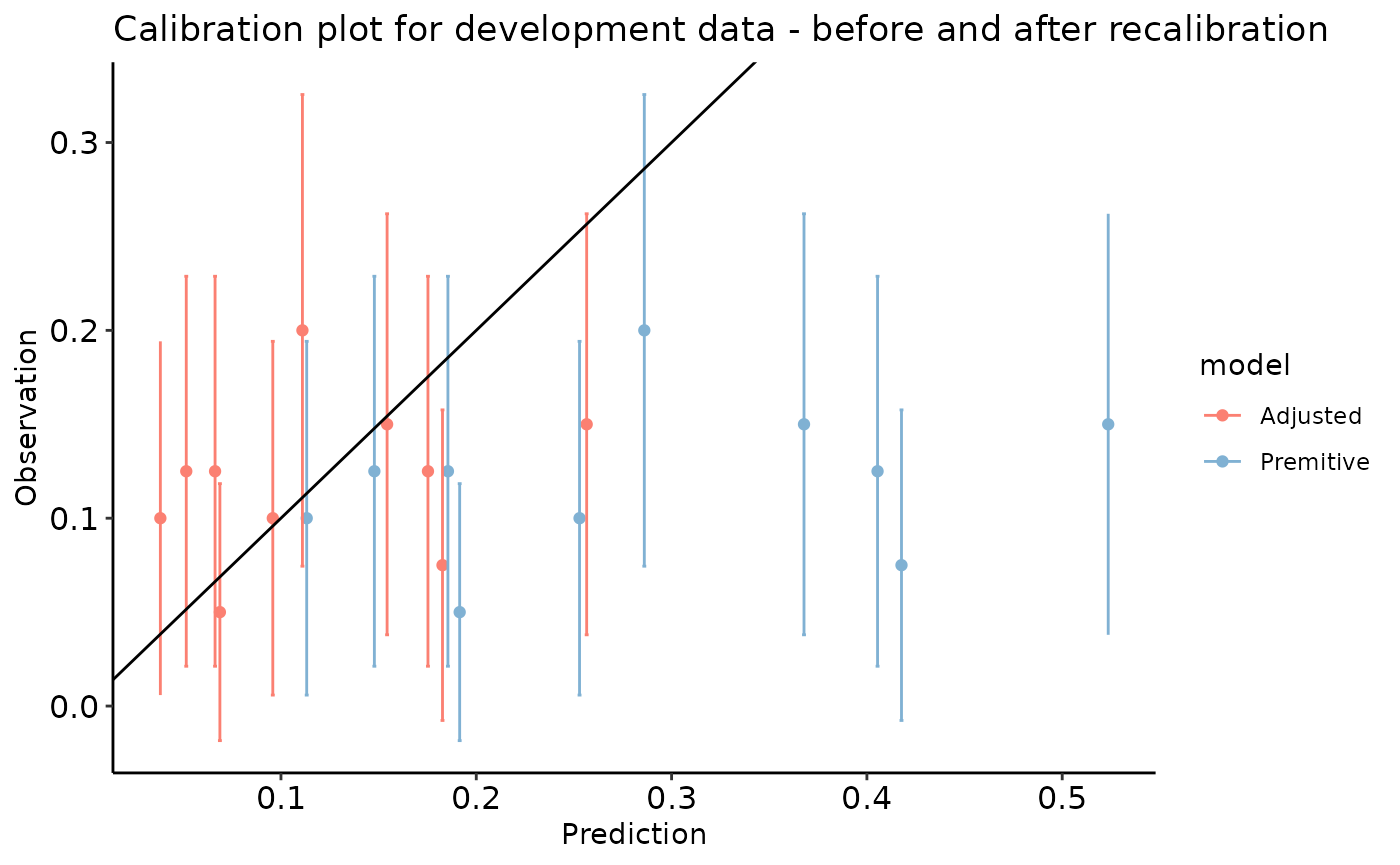
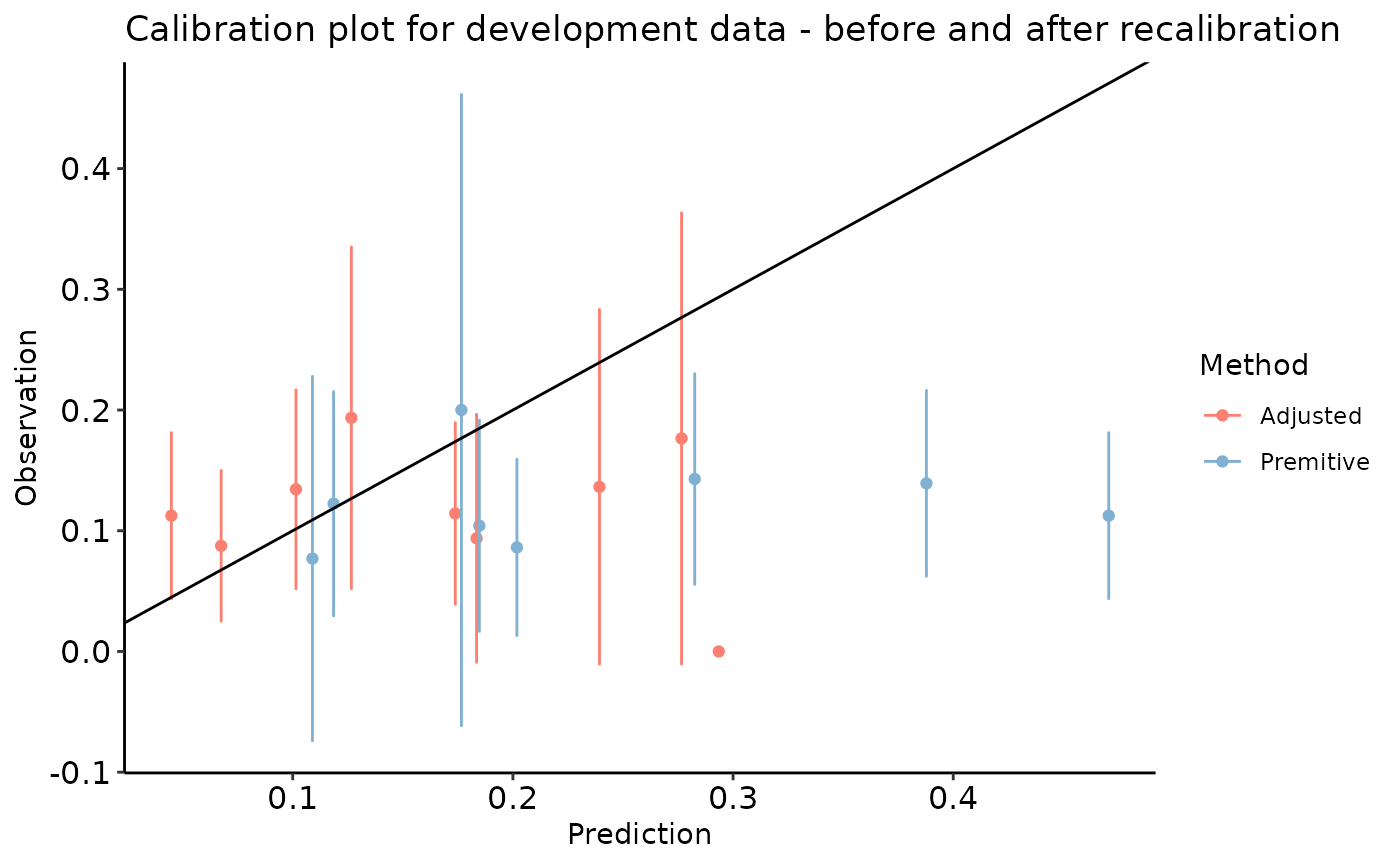
Built site for predtools: 0.0.2@8094269

diff --git a/articles/calibPlot.html b/articles/calibPlot.html
@@ -5,13 +5,13 @@
 <meta charset="utf-8">
 <meta http-equiv="X-UA-Compatible" content="IE=edge">
 <meta name="viewport" content="width=device-width, initial-scale=1.0">
-<title>Intercept Adjustment • predtools</title>
+<title>Calibration Plot • predtools</title>
 <!-- jquery --><script src="https://cdnjs.cloudflare.com/ajax/libs/jquery/3.4.1/jquery.min.js" integrity="sha256-CSXorXvZcTkaix6Yvo6HppcZGetbYMGWSFlBw8HfCJo=" crossorigin="anonymous"></script><!-- Bootstrap --><link rel="stylesheet" href="https://cdnjs.cloudflare.com/ajax/libs/twitter-bootstrap/3.4.1/css/bootstrap.min.css" integrity="sha256-bZLfwXAP04zRMK2BjiO8iu9pf4FbLqX6zitd+tIvLhE=" crossorigin="anonymous">
 <script src="https://cdnjs.cloudflare.com/ajax/libs/twitter-bootstrap/3.4.1/js/bootstrap.min.js" integrity="sha256-nuL8/2cJ5NDSSwnKD8VqreErSWHtnEP9E7AySL+1ev4=" crossorigin="anonymous"></script><!-- bootstrap-toc --><link rel="stylesheet" href="../bootstrap-toc.css">
 <script src="../bootstrap-toc.js"></script><!-- Font Awesome icons --><link rel="stylesheet" href="https://cdnjs.cloudflare.com/ajax/libs/font-awesome/5.12.1/css/all.min.css" integrity="sha256-mmgLkCYLUQbXn0B1SRqzHar6dCnv9oZFPEC1g1cwlkk=" crossorigin="anonymous">
 <link rel="stylesheet" href="https://cdnjs.cloudflare.com/ajax/libs/font-awesome/5.12.1/css/v4-shims.min.css" integrity="sha256-wZjR52fzng1pJHwx4aV2AO3yyTOXrcDW7jBpJtTwVxw=" crossorigin="anonymous">
 <!-- clipboard.js --><script src="https://cdnjs.cloudflare.com/ajax/libs/clipboard.js/2.0.6/clipboard.min.js" integrity="sha256-inc5kl9MA1hkeYUt+EC3BhlIgyp/2jDIyBLS6k3UxPI=" crossorigin="anonymous"></script><!-- headroom.js --><script src="https://cdnjs.cloudflare.com/ajax/libs/headroom/0.11.0/headroom.min.js" integrity="sha256-AsUX4SJE1+yuDu5+mAVzJbuYNPHj/WroHuZ8Ir/CkE0=" crossorigin="anonymous"></script><script src="https://cdnjs.cloudflare.com/ajax/libs/headroom/0.11.0/jQuery.headroom.min.js" integrity="sha256-ZX/yNShbjqsohH1k95liqY9Gd8uOiE1S4vZc+9KQ1K4=" crossorigin="anonymous"></script><!-- pkgdown --><link href="../pkgdown.css" rel="stylesheet">
-<script src="../pkgdown.js"></script><meta property="og:title" content="Intercept Adjustment">
+<script src="../pkgdown.js"></script><meta property="og:title" content="Calibration Plot">
 <meta property="og:description" content="predtools">
 <!-- mathjax --><script src="https://cdnjs.cloudflare.com/ajax/libs/mathjax/2.7.5/MathJax.js" integrity="sha256-nvJJv9wWKEm88qvoQl9ekL2J+k/RWIsaSScxxlsrv8k=" crossorigin="anonymous"></script><script src="https://cdnjs.cloudflare.com/ajax/libs/mathjax/2.7.5/config/TeX-AMS-MML_HTMLorMML.js" integrity="sha256-84DKXVJXs0/F8OTMzX4UR909+jtl4G7SPypPavF+GfA=" crossorigin="anonymous"></script><!--[if lt IE 9]>
 <script src="https://oss.maxcdn.com/html5shiv/3.7.3/html5shiv.min.js"></script>
@@ -85,14 +85,14 @@
 
       
 
-      </header><script src="interceptAdj_files/accessible-code-block-0.0.1/empty-anchor.js"></script><div class="row">
+      </header><script src="calibPlot_files/accessible-code-block-0.0.1/empty-anchor.js"></script><div class="row">
   <div class="col-md-9 contents">
     <div class="page-header toc-ignore">
-      <h1 data-toc-skip>Intercept Adjustment</h1>
+      <h1 data-toc-skip>Calibration Plot</h1>
             
       
-      <small class="dont-index">Source: <a href="https://github.com/resplab/predtools/blob/master/vignettes/interceptAdj.Rmd"><code>vignettes/interceptAdj.Rmd</code></a></small>
-      <div class="hidden name"><code>interceptAdj.Rmd</code></div>
+      <small class="dont-index">Source: <a href="https://github.com/resplab/predtools/blob/master/vignettes/calibPlot.Rmd"><code>vignettes/calibPlot.Rmd</code></a></small>
+      <div class="hidden name"><code>calibPlot.Rmd</code></div>
 
     </div>
 
@@ -111,60 +111,20 @@
 <span class="co">#&gt; </span>
 <span class="co">#&gt;     intersect, setdiff, setequal, union</span>
 <span class="kw"><a href="https://rdrr.io/r/base/library.html">library</a></span><span class="op">(</span><span class="va"><a href="https://ggplot2.tidyverse.org">ggplot2</a></span><span class="op">)</span></code></pre></div>
-<div id="what-is-intercept-adjustment" class="section level2">
+<div id="what-is-calibration-plot" class="section level2">
 <h2 class="hasAnchor">
-<a href="#what-is-intercept-adjustment" class="anchor"></a>What is intercept adjustment?</h2>
-<p>In clinical prediction modeling, model updating refers to the practice of modifying a prediction model before it is used in a new setting to improve its performance. One of the simplest updating methods for risk predication models is a fixed odds-ratio transformation of predicted risks to improve the model’s calibration-in-the-large.</p>
-<p><code>interceptAdj</code> function uses an approximate equation for recovering the conditional odds-ratio from the observed mean and predicted variance of risks in validation and development sets, respectively.</p>
+<a href="#what-is-calibration-plot" class="anchor"></a>What is calibration plot?</h2>
+<p>Calibration plot is a visual tool to assess the agreement between predictions and observations in different percentiles (mostly deciles) of the predicted values.</p>
+<p><code>calibration_plot</code> function constructs calibration plots based on provided predictions and observations columns of a given dataset. Among other options implemented in the function, one can evaluate prediction calibration according to a grouping factor (or even from multiple prediction models) in one calibration plot.</p>
 </div>
 <div id="a-step-by-step-guide-" class="section level2">
 <h2 class="hasAnchor">
 <a href="#a-step-by-step-guide-" class="anchor"></a>A step-by-step guide.</h2>
 <p>Imagine the variable y indicates risk of disease recurrence in a unit of time. We have a prediction model that quantifies this risk given a patient’s age, disease severity level, sex, and whether the patient has a comorbidity.</p>
 <p>The package comes with two exemplary datasets. <code>dev_data</code> and <code>val_data</code>. We use the dev_data as the development sample and the <code>val_data</code> as the external validation sample.</p>
-<p>Model updating matters when there is a considerable difference between mean of the observed risks in development and validation sets. The average of y in the above two datasets are almost identical. Therefore, to have a meaningful scenario, we create a secondary (arbitrary) outcome (y_alt) in <code>val_data</code> with a lower average (by ~ 50%).</p>
 <div class="sourceCode" id="cb2"><pre class="downlit sourceCode r">
 <code class="sourceCode R"><span class="fu"><a href="https://rdrr.io/r/utils/data.html">data</a></span><span class="op">(</span><span class="va">dev_data</span><span class="op">)</span>
 <span class="fu"><a href="https://rdrr.io/r/utils/data.html">data</a></span><span class="op">(</span><span class="va">val_data</span><span class="op">)</span></code></pre></div>
-<table class="table">
-<thead><tr class="header">
-<th align="left"></th>
-<th align="left">y</th>
-<th align="left">y_alt</th>
-</tr></thead>
-<tbody>
-<tr class="odd">
-<td align="left"></td>
-<td align="left">Min. :0.0000</td>
-<td align="left">Min. :0.00</td>
-</tr>
-<tr class="even">
-<td align="left"></td>
-<td align="left">1st Qu.:0.0000</td>
-<td align="left">1st Qu.:0.00</td>
-</tr>
-<tr class="odd">
-<td align="left"></td>
-<td align="left">Median :0.0000</td>
-<td align="left">Median :0.00</td>
-</tr>
-<tr class="even">
-<td align="left"></td>
-<td align="left">Mean :0.2975</td>
-<td align="left">Mean :0.12</td>
-</tr>
-<tr class="odd">
-<td align="left"></td>
-<td align="left">3rd Qu.:1.0000</td>
-<td align="left">3rd Qu.:0.00</td>
-</tr>
-<tr class="even">
-<td align="left"></td>
-<td align="left">Max. :1.0000</td>
-<td align="left">Max. :1.00</td>
-</tr>
-</tbody>
-</table>
 <p><code>dev_data</code> has 500 rows. <code>val_data</code> has 400 rows.</p>
 <p>Here are the first few rows of <code>dev_data</code>:</p>
 <table class="table">
@@ -229,7 +189,7 @@
 </table>
 <p>We use the development data to fit a logistic regression model as our risk prediction model:</p>
 <div class="sourceCode" id="cb3"><pre class="downlit sourceCode r">
-<code class="sourceCode R"><span class="va">reg</span><span class="op">&lt;-</span><span class="fu"><a href="https://rdrr.io/r/stats/glm.html">glm</a></span><span class="op">(</span><span class="va">y</span><span class="op">~</span><span class="va">sex</span><span class="op">+</span><span class="va">age</span><span class="op">+</span><span class="va">severity</span><span class="op">+</span><span class="va">comorbidity</span>,data<span class="op">=</span><span class="va">dev_data</span>,family<span class="op">=</span><span class="fu"><a href="https://rdrr.io/r/stats/family.html">binomial</a></span><span class="op">(</span>link<span class="op">=</span><span class="st">"logit"</span><span class="op">)</span><span class="op">)</span>
+<code class="sourceCode R"><span class="va">reg</span> <span class="op">&lt;-</span> <span class="fu"><a href="https://rdrr.io/r/stats/glm.html">glm</a></span><span class="op">(</span><span class="va">y</span><span class="op">~</span><span class="va">sex</span><span class="op">+</span><span class="va">age</span><span class="op">+</span><span class="va">severity</span><span class="op">+</span><span class="va">comorbidity</span>,data<span class="op">=</span><span class="va">dev_data</span>,family<span class="op">=</span><span class="fu"><a href="https://rdrr.io/r/stats/family.html">binomial</a></span><span class="op">(</span>link<span class="op">=</span><span class="st">"logit"</span><span class="op">)</span><span class="op">)</span>
 <span class="fu"><a href="https://rdrr.io/r/base/summary.html">summary</a></span><span class="op">(</span><span class="va">reg</span><span class="op">)</span>
 <span class="co">#&gt; </span>
 <span class="co">#&gt; Call:</span>
@@ -259,45 +219,20 @@
 <span class="co">#&gt; Number of Fisher Scoring iterations: 4</span></code></pre></div>
 <p>Given this, our risk prediction model can be written as:</p>
 <p><span class="math inline">\(\bf{ logit(p)=-1.7289+0.5572*sex+0.0052*age-0.5573*severity+1.0919*comorbidity}\)</span>.</p>
-<p>First, let’s see the calibration plot in development and validation datasets. We use <code>calibration_plot</code> from our package to create calibration plots.</p>
+<p>Now, we can create the calibration plot in development and validation datasets by using <code>calibration_plot</code> function.</p>
 <div class="sourceCode" id="cb4"><pre class="downlit sourceCode r">
 <code class="sourceCode R"><span class="va">dev_data</span><span class="op">$</span><span class="va">pred</span> <span class="op">&lt;-</span> <span class="fu"><a href="https://rdrr.io/r/stats/predict.glm.html">predict.glm</a></span><span class="op">(</span><span class="va">reg</span>, type <span class="op">=</span> <span class="st">'response'</span><span class="op">)</span>
 <span class="va">val_data</span><span class="op">$</span><span class="va">pred</span> <span class="op">&lt;-</span> <span class="fu"><a href="https://rdrr.io/r/stats/predict.glm.html">predict.glm</a></span><span class="op">(</span><span class="va">reg</span>, newdata <span class="op">=</span> <span class="va">val_data</span>, type <span class="op">=</span> <span class="st">'response'</span><span class="op">)</span>
 
 <span class="fu"><a href="../reference/calibration_plot.html">calibration_plot</a></span><span class="op">(</span>data <span class="op">=</span> <span class="va">dev_data</span>, obs <span class="op">=</span> <span class="st">"y"</span>, pred <span class="op">=</span> <span class="st">"pred"</span>, title <span class="op">=</span> <span class="st">"Calibration plot for development data"</span><span class="op">)</span>
 <span class="co">#&gt; $calibration_plot</span></code></pre></div>
-<p><img src="interceptAdj_files/figure-html/unnamed-chunk-7-1.png" width="700"></p>
+<p><img src="calibPlot_files/figure-html/unnamed-chunk-6-1.png" width="700"></p>
 <div class="sourceCode" id="cb5"><pre class="downlit sourceCode r">
-<code class="sourceCode R"><span class="fu"><a href="../reference/calibration_plot.html">calibration_plot</a></span><span class="op">(</span>data <span class="op">=</span> <span class="va">val_data</span>, obs <span class="op">=</span> <span class="st">"y_alt"</span>, pred <span class="op">=</span> <span class="st">"pred"</span>, y_lim <span class="op">=</span> <span class="fu"><a href="https://rdrr.io/r/base/c.html">c</a></span><span class="op">(</span><span class="fl">0</span>, <span class="fl">0.6</span><span class="op">)</span>,
-                 title <span class="op">=</span> <span class="st">"Calibration plot for validation data"</span><span class="op">)</span>
-<span class="co">#&gt; $calibration_plot</span></code></pre></div>
-<p><img src="interceptAdj_files/figure-html/unnamed-chunk-7-2.png" width="700"></p>
-<p>To adjust the predicted risks for the validation set, we estimate the correction factor by using function <code>odds_adjust</code>:</p>
-<div class="sourceCode" id="cb6"><pre class="downlit sourceCode r">
-<code class="sourceCode R"><span class="va">odds_correction_factor</span> <span class="op">&lt;-</span> <span class="fu"><a href="../reference/odds_adjust.html">odds_adjust</a></span><span class="op">(</span>p0 <span class="op">=</span> <span class="fu"><a href="https://rdrr.io/r/base/mean.html">mean</a></span><span class="op">(</span><span class="va">dev_data</span><span class="op">$</span><span class="va">y</span><span class="op">)</span>, p1 <span class="op">=</span> <span class="fu"><a href="https://rdrr.io/r/base/mean.html">mean</a></span><span class="op">(</span><span class="va">val_data</span><span class="op">$</span><span class="va">y_alt</span><span class="op">)</span>, v <span class="op">=</span> <span class="fu"><a href="https://rdrr.io/r/stats/cor.html">var</a></span><span class="op">(</span><span class="va">dev_data</span><span class="op">$</span><span class="va">pred</span><span class="op">)</span><span class="op">)</span>
-<span class="va">odds_correction_factor</span>
-<span class="co">#&gt; [1] 0.3116119</span></code></pre></div>
-<p>We can now recalibrate the predictions and reproduce the calibration plot for the validation set.</p>
-<div class="sourceCode" id="cb7"><pre class="downlit sourceCode r">
-<code class="sourceCode R"><span class="va">dev_data</span><span class="op">$</span><span class="va">pred</span> <span class="op">&lt;-</span> <span class="fu"><a href="https://rdrr.io/r/stats/predict.glm.html">predict.glm</a></span><span class="op">(</span><span class="va">reg</span>, type <span class="op">=</span> <span class="st">'response'</span><span class="op">)</span>
-<span class="va">val_data</span><span class="op">$</span><span class="va">pred</span> <span class="op">&lt;-</span> <span class="fu"><a href="https://rdrr.io/r/stats/predict.glm.html">predict.glm</a></span><span class="op">(</span><span class="va">reg</span>, newdata <span class="op">=</span> <span class="va">val_data</span>, type <span class="op">=</span> <span class="st">'response'</span><span class="op">)</span>
-
-<span class="va">val_data</span><span class="op">$</span><span class="va">odds_adj</span> <span class="op">&lt;-</span> <span class="op">(</span><span class="va">val_data</span><span class="op">$</span><span class="va">pred</span> <span class="op">/</span> <span class="op">(</span><span class="fl">1</span> <span class="op">-</span> <span class="va">val_data</span><span class="op">$</span><span class="va">pred</span><span class="op">)</span><span class="op">)</span> <span class="op">*</span> <span class="va">odds_correction_factor</span>
-<span class="va">val_data</span><span class="op">$</span><span class="va">pred_adj</span> <span class="op">&lt;-</span> <span class="va">val_data</span><span class="op">$</span><span class="va">odds_adj</span> <span class="op">/</span> <span class="op">(</span><span class="fl">1</span> <span class="op">+</span> <span class="va">val_data</span><span class="op">$</span><span class="va">odds_adj</span><span class="op">)</span>
-
-<span class="va">val_data</span><span class="op">$</span><span class="va">id</span> <span class="op">&lt;-</span> <span class="fu"><a href="https://rdrr.io/r/base/c.html">c</a></span><span class="op">(</span><span class="fl">1</span> <span class="op">:</span> <span class="fu"><a href="https://rdrr.io/r/base/nrow.html">nrow</a></span><span class="op">(</span><span class="va">val_data</span><span class="op">)</span><span class="op">)</span>
-<span class="va">val_data_long</span> <span class="op">&lt;-</span> <span class="fu"><a href="https://rdrr.io/r/stats/reshape.html">reshape</a></span><span class="op">(</span>data <span class="op">=</span> <span class="va">val_data</span>, direction <span class="op">=</span> <span class="st">"long"</span>, varying <span class="op">=</span> <span class="fu"><a href="https://rdrr.io/r/base/c.html">c</a></span><span class="op">(</span><span class="st">"pred"</span>, <span class="st">"pred_adj"</span><span class="op">)</span>, v.name <span class="op">=</span> <span class="st">"preds"</span>,
-                         idvar <span class="op">=</span> <span class="st">"id"</span>, timevar <span class="op">=</span> <span class="st">"Method"</span>, times <span class="op">=</span> <span class="fu"><a href="https://rdrr.io/r/base/c.html">c</a></span><span class="op">(</span><span class="st">"Premitive"</span>, <span class="st">"Adjusted"</span><span class="op">)</span><span class="op">)</span>
-
-<span class="fu"><a href="../reference/calibration_plot.html">calibration_plot</a></span><span class="op">(</span>data <span class="op">=</span> <span class="va">val_data</span>, obs <span class="op">=</span> <span class="st">"y_alt"</span>, pred <span class="op">=</span> <span class="st">"pred_adj"</span>,
-                 title <span class="op">=</span> <span class="st">"Calibration plot for development data - after recalibration"</span><span class="op">)</span>
-<span class="co">#&gt; $calibration_plot</span></code></pre></div>
-<p><img src="interceptAdj_files/figure-html/unnamed-chunk-9-1.png" width="700"></p>
-<div class="sourceCode" id="cb8"><pre class="downlit sourceCode r">
-<code class="sourceCode R"><span class="fu"><a href="../reference/calibration_plot.html">calibration_plot</a></span><span class="op">(</span>data <span class="op">=</span> <span class="va">val_data_long</span>, obs <span class="op">=</span> <span class="st">"y_alt"</span>, pred <span class="op">=</span> <span class="st">"preds"</span>, group <span class="op">=</span> <span class="st">"Method"</span>,
-                 title <span class="op">=</span> <span class="st">"Calibration plot for development data - before and after recalibration"</span><span class="op">)</span>
-<span class="co">#&gt; $calibration_plot</span></code></pre></div>
-<p><img src="interceptAdj_files/figure-html/unnamed-chunk-9-2.png" width="700"></p>
+<code class="sourceCode R"><span class="fu"><a href="../reference/calibration_plot.html">calibration_plot</a></span><span class="op">(</span>data <span class="op">=</span> <span class="va">val_data</span>, obs <span class="op">=</span> <span class="st">"y"</span>, pred <span class="op">=</span> <span class="st">"pred"</span>, y_lim <span class="op">=</span> <span class="fu"><a href="https://rdrr.io/r/base/c.html">c</a></span><span class="op">(</span><span class="fl">0</span>, <span class="fl">0.6</span><span class="op">)</span>,
+                 title <span class="op">=</span> <span class="st">"Calibration plot for validation data"</span>, group <span class="op">=</span> <span class="st">"sex"</span><span class="op">)</span>
+<span class="co">#&gt; $calibration_plot</span>
+<span class="co">#&gt; Warning: Removed 1 rows containing missing values (geom_point).</span></code></pre></div>
+<p><img src="calibPlot_files/figure-html/unnamed-chunk-6-2.png" width="700"></p>
 </div>
   </div>
 

diff --git a/reference/calibration_plot.html b/reference/calibration_plot.html
@@ -95,6 +95,9 @@
   </a>
   <ul class="dropdown-menu" role="menu">
     <li>
+      <a href="../articles/calibPlot.html">Calibration Plot</a>
+    </li>
+    <li>
       <a href="../articles/interceptAdj.html">Intercept Adjustment</a>
     </li>
     <li>
@@ -139,15 +142,13 @@
   <span class='va'>data</span>,
   <span class='va'>obs</span>,
   follow_up <span class='op'>=</span> <span class='cn'>NULL</span>,
-  <span class='va'>pred_1</span>,
-  pred_2 <span class='op'>=</span> <span class='cn'>NULL</span>,
+  <span class='va'>pred</span>,
+  group <span class='op'>=</span> <span class='cn'>NULL</span>,
   nTiles <span class='op'>=</span> <span class='fl'>10</span>,
   legendPosition <span class='op'>=</span> <span class='st'>"right"</span>,
   title <span class='op'>=</span> <span class='cn'>NULL</span>,
   x_lim <span class='op'>=</span> <span class='cn'>NULL</span>,
   y_lim <span class='op'>=</span> <span class='cn'>NULL</span>,
-  model_label_1 <span class='op'>=</span> <span class='cn'>NULL</span>,
-  model_label_2 <span class='op'>=</span> <span class='cn'>NULL</span>,
   xlab <span class='op'>=</span> <span class='st'>"Prediction"</span>,
   ylab <span class='op'>=</span> <span class='st'>"Observation"</span>,
   points_col_list <span class='op'>=</span> <span class='cn'>NULL</span>,
@@ -170,12 +171,12 @@
       <td><p>Name of follow-up time (if applicable) in the input data.</p></td>
     </tr>
     <tr>
-      <th>pred_1</th>
+      <th>pred</th>
       <td><p>Name of first predicted outcome in the input data.</p></td>
     </tr>
     <tr>
-      <th>pred_2</th>
-      <td><p>Name of second (if applicable) predicted outcome in the input data.</p></td>
+      <th>group</th>
+      <td><p>Name of grouping column (if  applicable) in the input data.</p></td>
     </tr>
     <tr>
       <th>nTiles</th>
@@ -196,14 +197,6 @@
     <tr>
       <th>y_lim</th>
       <td><p>Limits of y-axis on the calibration plot.</p></td>
-    </tr>
-    <tr>
-      <th>model_label_1</th>
-      <td><p>Label of the first prediction set.</p></td>
-    </tr>
-    <tr>
-      <th>model_label_2</th>
-      <td><p>Label of the first prediction set.</p></td>
     </tr>
     <tr>
       <th>xlab</th>
@@ -239,8 +232,8 @@ the predicted and observed outcomes (if data_summary set to be TRUE).</p>
 #&gt; <span class='message'></span>
 #&gt; <span class='message'>    intersect, setdiff, setequal, union</span></div><div class='input'><span class='va'>x</span> <span class='op'>&lt;-</span> <span class='fu'><a href='https://rdrr.io/r/stats/Normal.html'>rnorm</a></span><span class='op'>(</span><span class='fl'>100</span>, <span class='fl'>10</span>, <span class='fl'>2</span><span class='op'>)</span>
 <span class='va'>y</span> <span class='op'>&lt;-</span> <span class='va'>x</span> <span class='op'>+</span> <span class='fu'><a href='https://rdrr.io/r/stats/Normal.html'>rnorm</a></span><span class='op'>(</span><span class='fl'>100</span>,<span class='fl'>0</span>, <span class='fl'>1</span><span class='op'>)</span>
-<span class='va'>data</span> <span class='op'>&lt;-</span> <span class='fu'><a href='https://tibble.tidyverse.org/reference/tibble.html'>tibble</a></span><span class='op'>(</span><span class='va'>x</span>,<span class='va'>y</span><span class='op'>)</span>
-<span class='fu'>calibration_plot</span><span class='op'>(</span><span class='va'>data</span>, obs <span class='op'>=</span> <span class='st'>"x"</span>, pred_1 <span class='op'>=</span> <span class='st'>"y"</span><span class='op'>)</span>
+<span class='va'>data</span> <span class='op'>&lt;-</span> <span class='fu'><a href='https://rdrr.io/r/base/data.frame.html'>data.frame</a></span><span class='op'>(</span><span class='va'>x</span>, <span class='va'>y</span><span class='op'>)</span>
+<span class='fu'>calibration_plot</span><span class='op'>(</span><span class='va'>data</span>, obs <span class='op'>=</span> <span class='st'>"x"</span>, pred <span class='op'>=</span> <span class='st'>"y"</span><span class='op'>)</span>
 </div><div class='output co'>#&gt; $calibration_plot</div><div class='img'><img src='calibration_plot-1.png' alt='' width='700' height='433' /></div><div class='output co'>#&gt; </div></pre>
   </div>
   <div class="col-md-3 hidden-xs hidden-sm" id="pkgdown-sidebar">

diff --git a/articles/mROC.html b/articles/mROC.html
@@ -54,6 +54,9 @@
   </a>
   <ul class="dropdown-menu" role="menu">
 <li>
+      <a href="../articles/calibPlot.html">Calibration Plot</a>
+    </li>
+    <li>
       <a href="../articles/interceptAdj.html">Intercept Adjustment</a>
     </li>
     <li>
@@ -274,9 +277,9 @@
 <code class="sourceCode R"><span class="va">res</span><span class="op">&lt;-</span><span class="fu"><a href="../reference/mROC_inference.html">mROC_inference</a></span><span class="op">(</span><span class="va">val_data</span><span class="op">[</span>,<span class="st">'y'</span><span class="op">]</span>,<span class="va">pred</span><span class="op">)</span>
 
 <span class="va">res</span>
-<span class="co">#&gt; Mean calibration statistic (A):0.00835868(Obs&gt;Pred) (p:0.72367)</span>
-<span class="co">#&gt; mROC/ROC equality statsitic (B):0.05910898 (p:0.04612)</span>
-<span class="co">#&gt; Unified statistic:6.856445 (df:4.026477,p:0.1457487)</span></code></pre></div>
+<span class="co">#&gt; Mean calibration statistic (A):0.00835868(Obs&gt;Pred) (p:0.72272)</span>
+<span class="co">#&gt; mROC/ROC equality statsitic (B):0.05910898 (p:0.04776)</span>
+<span class="co">#&gt; Unified statistic:6.752254 (df:4.004808,p:0.1499616)</span></code></pre></div>
 </div>
 </div>
   </div>

diff --git a/articles/calibPlot_files/accessible-code-block-0.0.1/empty-anchor.js b/articles/calibPlot_files/accessible-code-block-0.0.1/empty-anchor.js
@@ -1,0 +1,15 @@
+// Hide empty <a> tag within highlighted CodeBlock for screen reader accessibility (see https://github.com/jgm/pandoc/issues/6352#issuecomment-626106786) -->
+// v0.0.1
+// Written by JooYoung Seo (jooyoung@psu.edu) and Atsushi Yasumoto on June 1st, 2020.
+
+document.addEventListener('DOMContentLoaded', function() {
+  const codeList = document.getElementsByClassName("sourceCode");
+  for (var i = 0; i < codeList.length; i++) {
+    var linkList = codeList[i].getElementsByTagName('a');
+    for (var j = 0; j < linkList.length; j++) {
+      if (linkList[j].innerHTML === "") {
+        linkList[j].setAttribute('aria-hidden', 'true');
+      }
+    }
+  }
+});

diff --git a/articles/index.html b/articles/index.html
@@ -94,6 +94,9 @@
   </a>
   <ul class="dropdown-menu" role="menu">
     <li>
+      <a href="../articles/calibPlot.html">Calibration Plot</a>
+    </li>
+    <li>
       <a href="../articles/interceptAdj.html">Intercept Adjustment</a>
     </li>
     <li>
@@ -133,6 +136,8 @@
       <p class="section-desc"></p>
 
       <dl>
+        <dt><a href="calibPlot.html">Calibration Plot</a></dt>
+        <dd></dt>
         <dt><a href="interceptAdj.html">Intercept Adjustment</a></dt>
         <dd></dt>
         <dt><a href="mROC.html">Model-based ROC</a></dt>

diff --git a/reference/mROC.html b/reference/mROC.html
@@ -98,6 +98,9 @@ Takes in a vector of probabilities and returns mROC values (True positives, Fals
   </a>
   <ul class="dropdown-menu" role="menu">
     <li>
+      <a href="../articles/calibPlot.html">Calibration Plot</a>
+    </li>
+    <li>
       <a href="../articles/interceptAdj.html">Intercept Adjustment</a>
     </li>
     <li>

diff --git a/news/index.html b/news/index.html
@@ -94,6 +94,9 @@
   </a>
   <ul class="dropdown-menu" role="menu">
     <li>
+      <a href="../articles/calibPlot.html">Calibration Plot</a>
+    </li>
+    <li>
       <a href="../articles/interceptAdj.html">Intercept Adjustment</a>
     </li>
     <li>

diff --git a/reference/calc_mROC_stats.html b/reference/calc_mROC_stats.html
@@ -95,6 +95,9 @@
   </a>
   <ul class="dropdown-menu" role="menu">
     <li>
+      <a href="../articles/calibPlot.html">Calibration Plot</a>
+    </li>
+    <li>
       <a href="../articles/interceptAdj.html">Intercept Adjustment</a>
     </li>
     <li>

diff --git a/reference/dev_data.html b/reference/dev_data.html
@@ -95,6 +95,9 @@
   </a>
   <ul class="dropdown-menu" role="menu">
     <li>
+      <a href="../articles/calibPlot.html">Calibration Plot</a>
+    </li>
+    <li>
       <a href="../articles/interceptAdj.html">Intercept Adjustment</a>
     </li>
     <li>

diff --git a/reference/index.html b/reference/index.html
@@ -94,6 +94,9 @@
   </a>
   <ul class="dropdown-menu" role="menu">
     <li>
+      <a href="../articles/calibPlot.html">Calibration Plot</a>
+    </li>
+    <li>
       <a href="../articles/interceptAdj.html">Intercept Adjustment</a>
     </li>
     <li>

diff --git a/reference/mAUC.html b/reference/mAUC.html
@@ -95,6 +95,9 @@
   </a>
   <ul class="dropdown-menu" role="menu">
     <li>
+      <a href="../articles/calibPlot.html">Calibration Plot</a>
+    </li>
+    <li>
       <a href="../articles/interceptAdj.html">Intercept Adjustment</a>
     </li>
     <li>

diff --git a/reference/mROC_analysis.html b/reference/mROC_analysis.html
@@ -95,6 +95,9 @@
   </a>
   <ul class="dropdown-menu" role="menu">
     <li>
+      <a href="../articles/calibPlot.html">Calibration Plot</a>
+    </li>
+    <li>
       <a href="../articles/interceptAdj.html">Intercept Adjustment</a>
     </li>
     <li>
